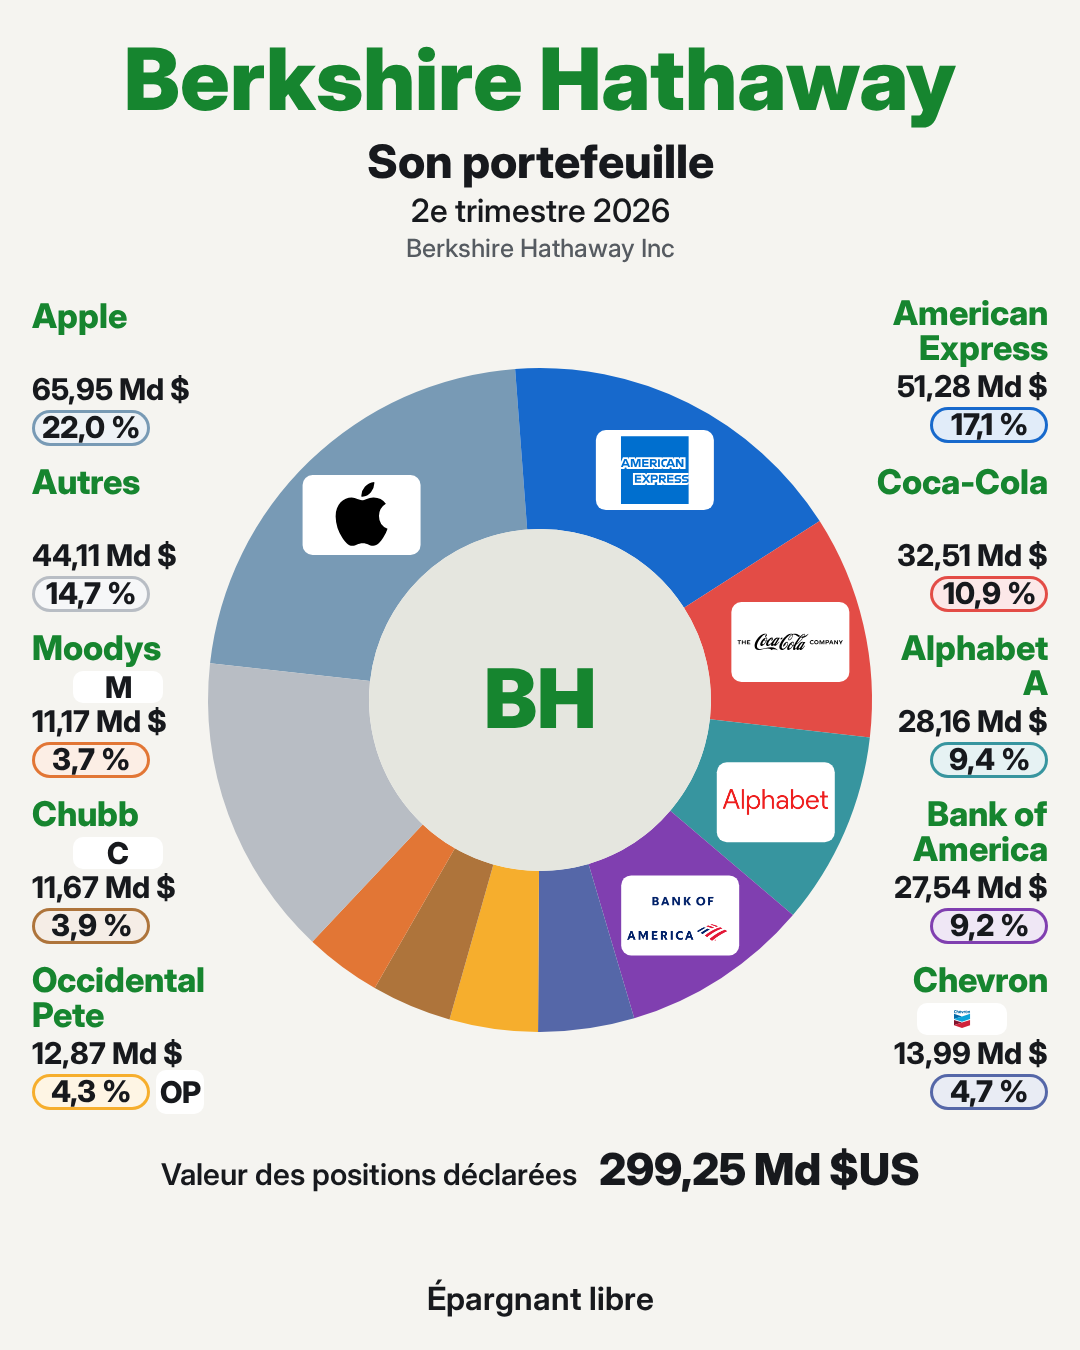
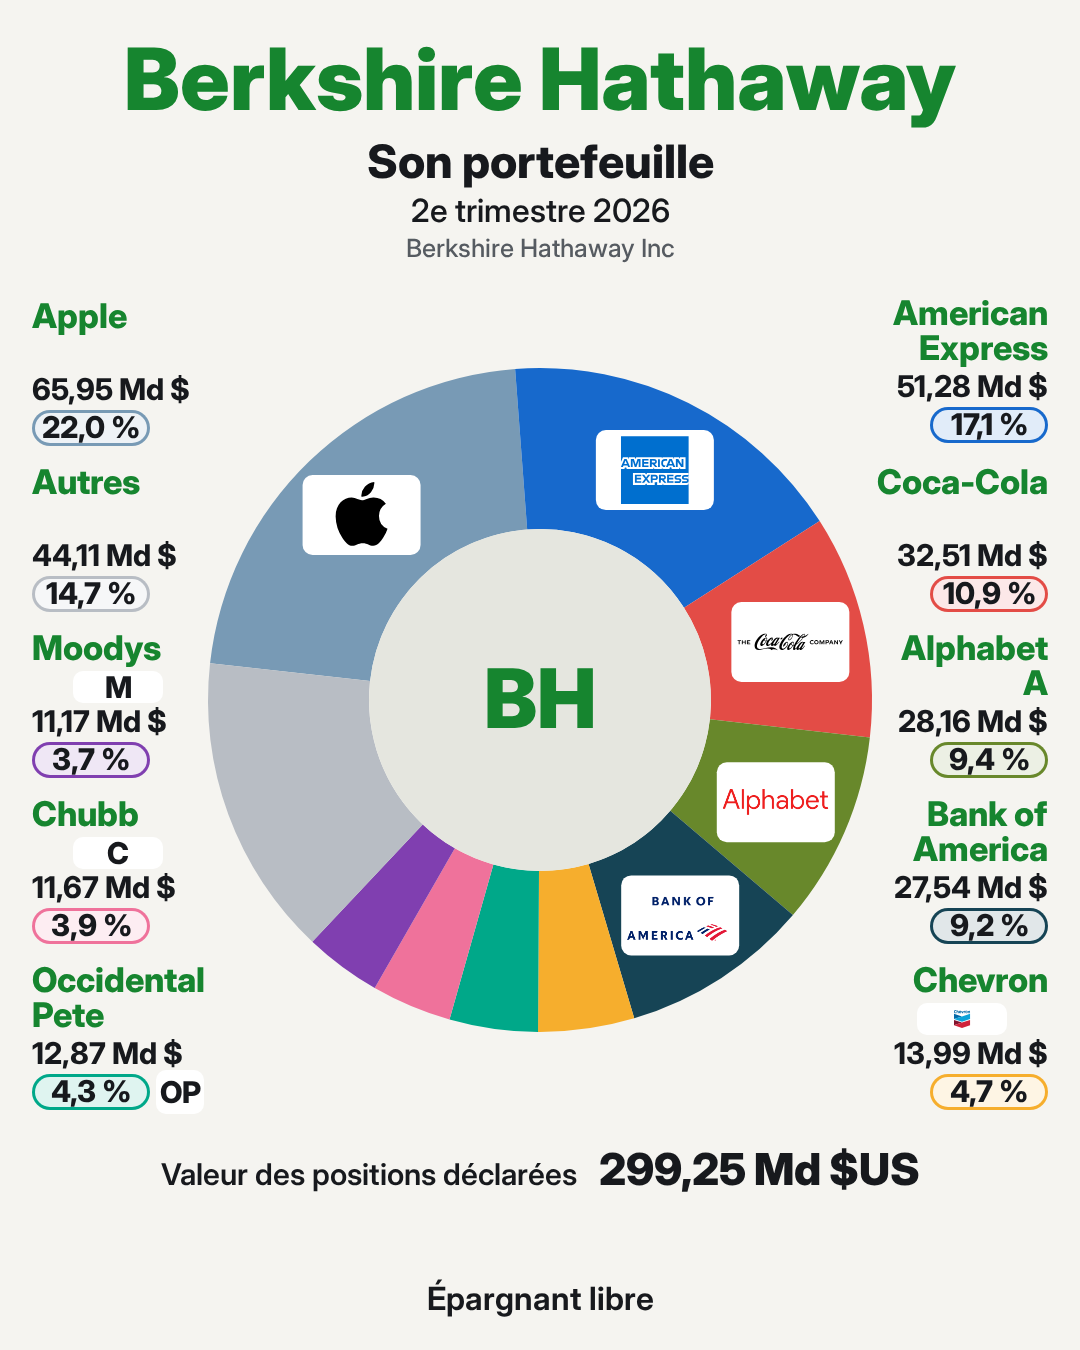
Distinguer les couleurs proches des secteurs

diff --git a/src/pages/investor-portfolio/publication.js b/src/pages/investor-portfolio/publication.js
@@ -45,9 +45,12 @@ export function positionColor(row) {
 }
 export function colorPositions(rows) {
   const used=new Set()
+  const rgb=color=>[1,3,5].map(i=>parseInt(color.slice(i,i+2),16))
+  const separation=color=>Math.min(...[...used].map(other=>Math.hypot(...rgb(color).map((v,i)=>v-rgb(other)[i]))))
   return rows.map(row=>{
     let color=positionColor(row)
-    if(used.has(color))color=palette.find(c=>!used.has(c)) || color
+    // Avoid near twins as well as identical colors (e.g. Nvidia / Cerebras).
+    if(separation(color)<95)color=palette.filter(c=>!used.has(c)).sort((a,b)=>separation(b)-separation(a))[0] || color
     used.add(color)
     return {...row,color}
   })

diff --git a/docs/investor-redesign-2026-11-16.md b/docs/investor-redesign-2026-11-16.md
@@ -9,7 +9,7 @@ Les consignes CLAUDE et l’audit du 18 octobre, notamment §5 et §7.8, ont ét
 | Critère demandé | Changement vérifié dans les PNG |
 | --- | --- |
 | Typographie | Inter variable locale sous SIL OFL, chargée avant export ; nom jusqu’à 86 px, positions 34 px, montants et pourcentages 30 px. Aucun monospace dans le nouveau rendu. |
-| Palette | Fond neutre clair, chiffres noirs, noms verts ; secteurs de couleurs distinctes, couleurs de remplacement déterministes partagées avec le détail. |
+| Palette | Fond neutre clair, chiffres noirs, noms verts ; secteurs de couleurs distinctes, couleurs de remplacement déterministes partagées avec le détail, en écartant aussi les teintes voisines. |
 | Place du graphique | Diamètre 664 px contre 470 px auparavant ; anneau de 161 px contre 90 px. Aucun agrandissement d’une position ni renormalisation du sous-ensemble présenté. |
 | Portrait | Détourage vérifié conservant ses proportions, jusqu’à 368 px de large ; peut dépasser légèrement l’intérieur de l’anneau. Les pourcentages restent à l’extérieur de son emprise. |
 | Logos | Intégrés dans les secteurs suffisamment grands, autrement placés auprès du libellé. Alphabet est cadré sur son mot-symbole existant, sans bande de site web et sans toucher l’asset des autres outils. Les logos manquants utilisent des initiales. |
@@ -33,7 +33,7 @@ Le relevé Berkshire 2026 reste attribué à Berkshire Hathaway, avec les initia
 
 ## Recette effectuée
 
-- `npm run build` : succès, budgets respectés ; route investisseurs 723,8 / 725 kB. Les pages PNG détaillées sont chargées à la demande pour conserver le budget existant, sans augmenter sa limite.
+- `npm run build` : succès, budgets respectés ; route investisseurs 724,1 / 725 kB. Les pages PNG détaillées sont chargées à la demande pour conserver le budget existant, sans augmenter sa limite.
 - `scripts/test-investor-screenprint.mjs` : 30 PNG (26 relevés et quatre cas synthétiques), absence de texte coupé/chevauché, dimensions, calculs et cohérence du texte. Téléchargements PNG/JSON/ZIP, presse-papiers, portrait/logo absent, panne source conservant la dernière version, échec Canvas et réessai, données incomplètes.
 - `scripts/test-investor-visual-ui.mjs` sur le site compilé : 56 parcours, les 28 profils à 1440 et 390 px. 52 PNG réellement téléchargés et rouverts ; identiques à l’aperçu et entre les deux largeurs. Les deux profils incomplets restent bloqués. Aucune erreur JavaScript ni débordement de page.
 - Test navigateur du dépôt avec Node 20 : `scripts/playwright-tools.mjs --investors` réussi pour les 28 textes, les sélections, le mobile et les états incomplets.
